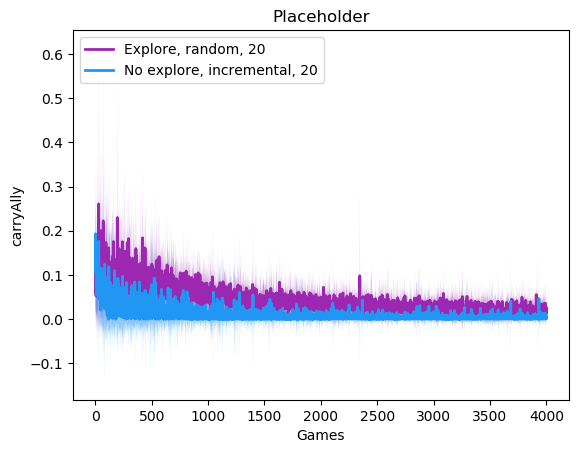
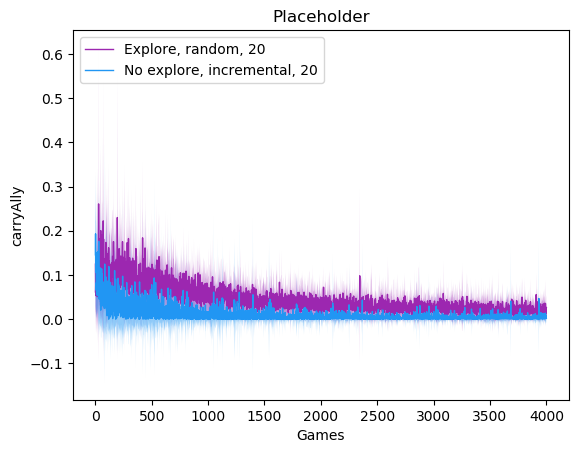
analyse

Changed region(s): [[0.1557, 0.4636, 0.9654, 0.7108], [0.1869, 0.6799, 0.2803, 0.7108], [0.1557, 0.0927, 0.1869, 0.1236]]

diff --git a/Analyse/analyses.py b/Analyse/analyses.py
@@ -43,7 +43,7 @@ class AnalysePlot():
 
         def varPlot(self, mean, sd, name, color, meanVar=False):
             x = np.arange(1, len(mean) + 1)
-            self.plot(x, mean, lw=2, label=name, color=color, zorder=2)
+            self.plot(x, mean, lw=1, label=name, color=color, zorder=2)
             if meanVar:
                 sd = sd / np.sqrt(mean.shape[2])
             self.fill_between(x, mean + sd, mean - sd, facecolor=color, alpha=0.5, zorder=2)
